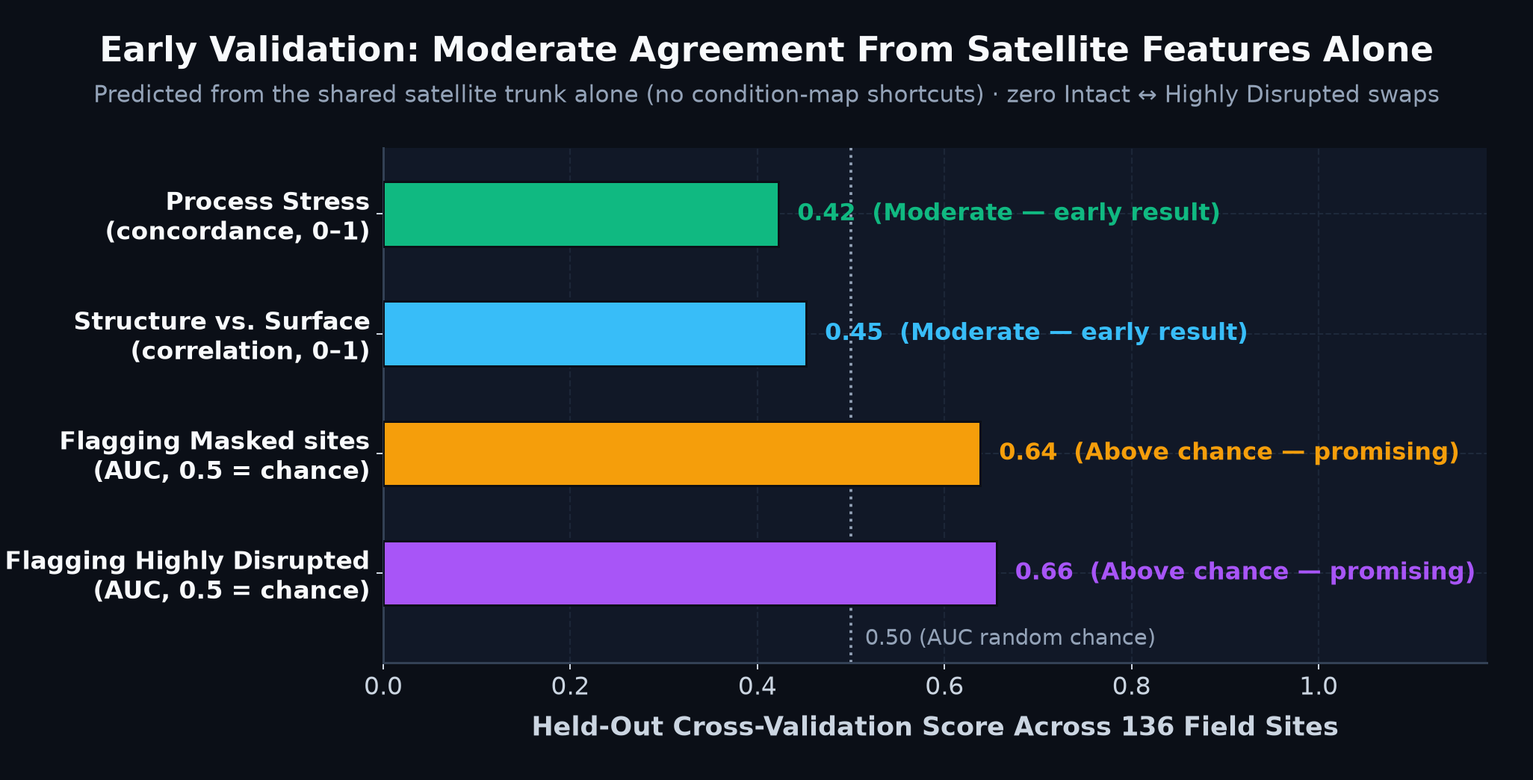
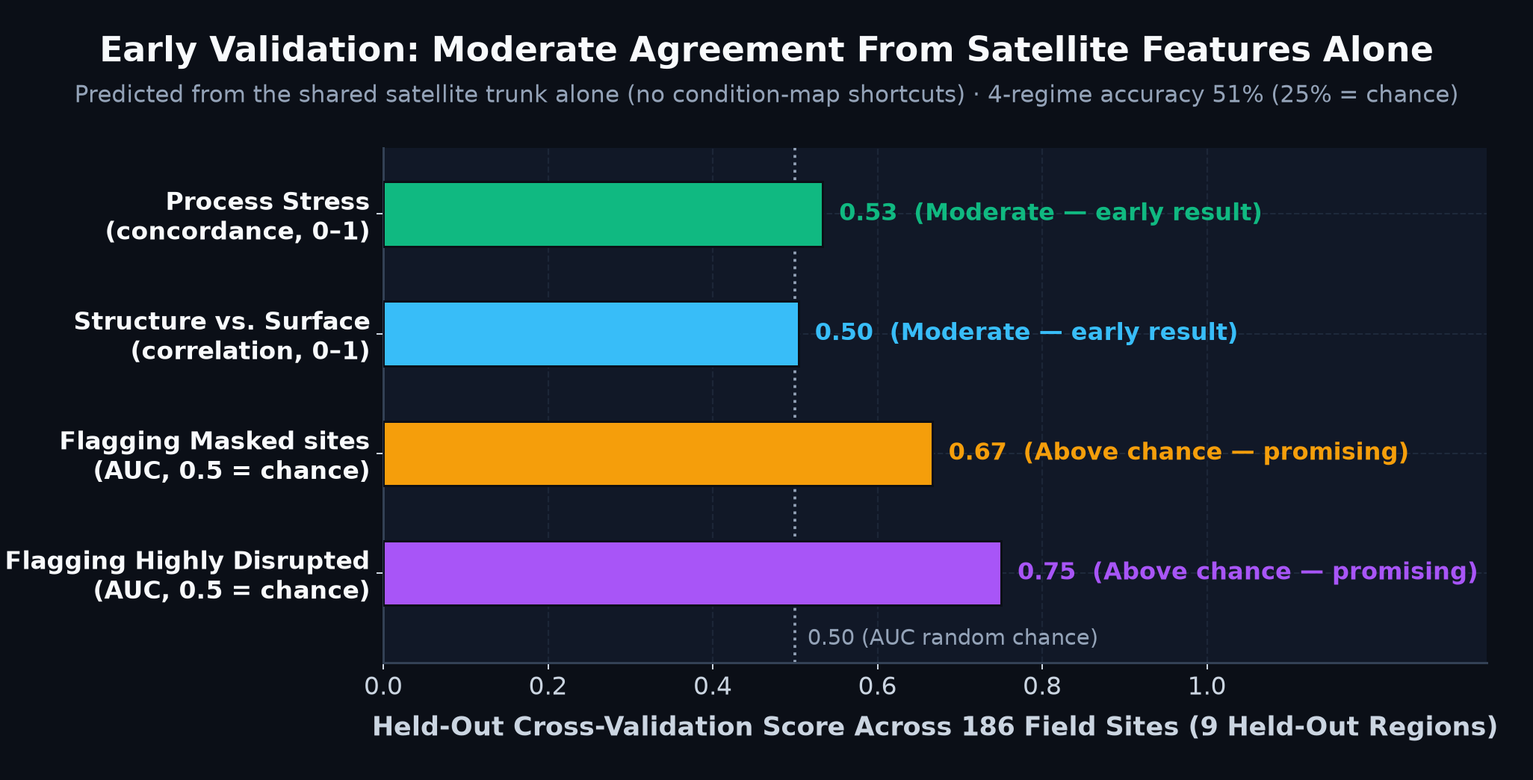
Update process-view slides to V7 results (186 sites); feature Sites 185 and 176

diff --git a/index.html b/index.html
@@ -1690,7 +1690,7 @@
     </section>
     
 
-    <section class="slide layout-standard" data-index="15" data-id="13" data-section="main" data-act="Act 4 · Early research" data-time="16:45–18:05" data-title="The same ground through two views">
+    <section class="slide layout-standard" data-index="15" data-id="13" data-section="main" data-act="Act 4 · Early research" data-time="16:45–18:10" data-title="The same ground through two views">
       
         <header class="s-head">
           <div class="s-title-wrap">
@@ -1710,11 +1710,11 @@
         <div class="regime-stage" id="regime-stage"></div>
       </div>
       <div class="s-num">13</div>
-      <aside class="notes">When we run that two-step Gemini prompt across 136 field photos, four physical regimes emerge. Let me show two of them live. Regime 1, Intact processes: here is our Windorah dune again — a grazing checklist grades it D, yet the process view sees deep sand percolating rain and spinifex root-knitting the slope, for a Process Stress of just 1.6 out of 10. [Press 2] Regime 2, Masked: Morven and Site 61 look green and grassy, so checklists rate them well, yet the process view flags missing overstorey trees and baking air above the grass — Process Stress around 4. The other two tabs, Disrupted and Highly disrupted, show glazed clay pans shedding runoff and hard-set, crusting surfaces above 8 out of 10 — yet even there, fallen branches act as tiny soil-catching micro-sinks.</aside>
+      <aside class="notes">When we run that two-step Gemini prompt across 186 field sites, four physical regimes emerge. Let me show two of them live. Regime 1, Intact processes: Site 185 near Weribone is grassy box woodland — tall trees and a full perennial grass layer — so canopies filter the rain while grass roots knit the soil, for a Process Stress of just 1.3 out of 10. [Press 2] Regime 2, Masked: Site 176 near Oberina and Site 61 look green and grassy, so checklists rate them well, yet the process view flags missing overstorey trees and baking air above the grass — Process Stress around 4. The other two tabs, Disrupted and Highly disrupted, show glazed clay pans shedding runoff and hard-set, crusting surfaces above 8 out of 10 — yet even there, fallen branches act as tiny soil-catching micro-sinks.</aside>
     </section>
     
 
-    <section class="slide layout-standard" data-index="16" data-id="14" data-section="main" data-act="Act 4 · Early research" data-time="18:05–19:05" data-title="Some top-rated pasture is quietly losing its trees">
+    <section class="slide layout-standard" data-index="16" data-id="14" data-section="main" data-act="Act 4 · Early research" data-time="18:10–19:20" data-title="Some top-rated pasture is quietly losing its trees">
       
         <header class="s-head">
           <div class="s-title-wrap">
@@ -1727,20 +1727,20 @@
       <div class="s-body">
         <div class="split-2">
           <div class="photo-card">
-            <div class="fig-box"><img src="assets/site_08.jpg" alt="Site 08 near Morven showing thick buffel grass with cleared overstorey trees" class="cover" data-zoom="Site 08 · Morven — Grade A pasture on paper, missing its tree canopy"></div>
-            <div class="photo-cap"><strong>Site 08 · Morven — thick grass, missing trees</strong><span>Rated <strong>Grade A</strong> pasture after good rain — yet shade trees have been cleared and surface cover masks deeper structural loss.</span></div>
+            <div class="fig-box"><img src="assets/site_176.jpg" alt="Site 176 near Oberina: thick pasture grass running up to a remnant brigalow tree line on the horizon" class="cover" data-zoom="Site 176 · Oberina — Grade A pasture on paper, missing its tree canopy"></div>
+            <div class="photo-cap"><strong>Site 176 · Oberina — thick grass, missing trees</strong><span>Rated <strong>Grade A</strong> pasture — yet the brigalow woodland now survives only as a wall of trees on the horizon.</span></div>
           </div>
           <div class="fig-box">
-            <img src="assets/chart_checklist_paradox.png" alt="Stacked bar chart of 136 field-photo sites showing more than a third of Grade A pasture sites are Masked or Disrupted underneath" data-zoom="More than a third of Grade A pasture sites hide missing tree structure">
+            <img src="assets/chart_checklist_paradox.png" alt="Stacked bar chart of 186 field-photo sites showing about two in five Grade A pasture sites are Masked or Disrupted underneath" data-zoom="About two in five Grade A pasture sites hide missing tree structure">
           </div>
         </div>
       </div>
       <div class="s-num">14</div>
-      <aside class="notes">Now put those four process regimes directly alongside standard grazing grades across all 136 field-photo sites, and a striking pattern jumps out. Look back at Site 08 near Morven on the left. After a wet season, thick introduced buffel grass covers the ground, so a pastoral checklist gives it top marks — Grade A. Yet look at the horizon: the multi-layered woodland trees that shelter the soil, cool the air, and anchor deep moisture are gone. Across the 136 sites on the right, more than a third of Grade A pasture sites — thirty-eight percent — turn out to be Masked or Disrupted underneath, while more than half of Grade B sites are Masked. That is the exact blind spot a process view begins to uncover.</aside>
+      <aside class="notes">Now put those four process regimes directly alongside standard grazing grades across all 186 field-photo sites, and a striking pattern jumps out. Look back at Site 176 near Oberina on the left. Thick grass covers the ground, so a pastoral checklist gives it top marks — Grade A. Yet look at the horizon: that wall of brigalow is what the whole paddock used to be. The trees that shelter the soil, cool the air, and anchor deep moisture are gone. Across the 186 sites on the right, about two in five Grade A pasture sites — forty-two percent — turn out to be Masked or Disrupted underneath. And it held up on the fifty sites we added in the latest run: eleven of the twenty-one new Grade A sites. That is the exact blind spot a process view begins to uncover.</aside>
     </section>
     
 
-    <section class="slide layout-standard" data-index="17" data-id="15" data-section="main" data-act="Act 4 · Early research" data-time="19:05–20:05" data-title="How we check the process view">
+    <section class="slide layout-standard" data-index="17" data-id="15" data-section="main" data-act="Act 4 · Early research" data-time="19:20–20:50" data-title="How we check the process view">
       
         <header class="s-head">
           <div class="s-title-wrap">
@@ -1753,7 +1753,7 @@
       <div class="s-body">
         <div class="split-2">
           <div class="fig-box">
-            <img src="assets/chart_process_validation.png" alt="Held-out cross-validation results across 136 field sites showing moderate agreement (0.42-0.45) and above-chance detection (0.64-0.66)" data-zoom="Honest early validation across 136 field sites">
+            <img src="assets/chart_process_validation.png" alt="Held-out cross-validation across 186 field sites in nine held-out regions showing moderate agreement (about 0.5) and above-chance detection (AUC 0.67 to 0.75)" data-zoom="Honest early validation across 186 field sites">
           </div>
           <div class="fig-box">
             <img src="assets/svg_four_planes_guardrails.svg" alt="Diagram of the four physical landscape planes and strict language guardrails" data-zoom="Four physical planes and strict language guardrails">
@@ -1761,20 +1761,20 @@
         </div>
         <div class="mini-card inline-note">
           <strong class="sky">Honest framing:</strong>
-          <span>Probing verb-guided photo assessments across 136 held-out sites from satellite trunk features alone (no condition-map shortcuts) yields <strong>moderate</strong> agreement (<strong>CCC 0.42 · AUC 0.64–0.66</strong>, where 0.5 = chance) — promising as an early signal, not yet an operational grade.</span>
+          <span>Predicting photo-based process readings at 186 sites in 9 held-out regions from satellite trunk features alone (no condition-map shortcuts) gives <strong>moderate</strong> agreement (<strong>CCC ≈ 0.5 · AUC 0.67–0.75</strong>, 0.5 = chance), ranging from 0.06 in the far west to 0.87 on the eastern escarpment — an early signal, not yet an operational grade.</span>
         </div>
       </div>
       <div class="s-num">15</div>
-      <aside class="notes">Can satellites actually see this, and how honest is the check? We trained a lightweight probe on the shared internal features of our condition model — deliberately withholding the six condition maps so it could not take shortcuts — to predict the 136 photo-based Process Stress labels. Under held-out cross-validation, agreement is moderate: a concordance correlation of 0.42 for Process Stress, and an AUC of 0.64 to 0.66 for flagging Masked and Highly disrupted sites, where 0.5 is chance. Promising as an early cross-modal signal, but not yet operational. On the right, every reading is anchored to four physical planes — soil, surface water, tree canopy and fire — with guardrails that stop the model inventing cultural, ceremonial or ownership claims.</aside>
+      <aside class="notes">Can satellites actually see this, and how honest is the check? We trained a lightweight probe on the shared internal features of the same condition model — deliberately withholding the six condition maps so it could not take shortcuts — to predict the photo-based Process Stress at 186 sites. Tested on nine held-out regions, agreement is moderate: a concordance of about 0.5 — 0.49 raw, 0.53 after a simple spread calibration — and an AUC of 0.67 to 0.75 for flagging Masked and Highly disrupted sites, where 0.5 is chance. It is strong on the eastern escarpment and close to zero in the far-west Channel Country — remember the Windorah dune? When the far west is held out, the probe reads it as stressed. One honest ML footnote: on our original 136 sites the new backbone alone did no better — the gain came from fifty more field sites. On the right, every reading is anchored to four physical planes — soil, surface water, tree canopy and fire — with guardrails that stop the model inventing cultural, ceremonial or ownership claims.</aside>
     </section>
     
 
-    <section class="slide layout-standard" data-index="18" data-id="16" data-section="main" data-act="Act 4 · Early research" data-time="20:05–21:00" data-title="Mapping Process Stress across 650,000 km²">
+    <section class="slide layout-standard" data-index="18" data-id="16" data-section="main" data-act="Act 4 · Early research" data-time="20:50–21:55" data-title="Mapping Process Stress across 655,000 km²">
       
         <header class="s-head">
           <div class="s-title-wrap">
             <div class="s-kicker">Early research · built on the condition model</div>
-            <h2 class="s-title">Mapping Process Stress across 650,000 km²</h2>
+            <h2 class="s-title">Mapping Process Stress across 655,000 km²</h2>
             
           </div>
         </header>
@@ -1782,21 +1782,21 @@
       <div class="s-body">
         <div class="stack-visual">
           <div class="fig-box main-fig">
-            <img src="assets/map_mitchell_process_stress.png" alt="Two-panel map of the 650,000 square kilometre Mitchell corridor showing Process Stress and the four dominant landscape process regimes" data-zoom="Early research: Process Stress across ~650,000 km²">
+            <img src="assets/map_mitchell_process_stress.png" alt="Two-panel map of the 655,000 square kilometre Mitchell corridor showing Process Stress, 186 field sites and the four dominant landscape process regimes" data-zoom="Early research: Process Stress across ~655,000 km²">
           </div>
           <div class="strip-3">
-            <div class="mini-card"><strong class="emerald">43% Intact processes</strong><span>Mostly woody ranges, spinifex dunes, and intact mulga landscapes.</span></div>
-            <div class="mini-card"><strong class="amber">38% Masked</strong><span>Cleared grazing downs where lush grass hides missing overstorey structure.</span></div>
-            <div class="mini-card"><strong class="violet">20% Disrupted / Highly disrupted</strong><span>Early map signal flagging priority zones for on-ground checking, not final grades.</span></div>
+            <div class="mini-card"><strong class="emerald">Just over half (54%) Intact</strong><span>Mostly far-west channel and dune country, woody ranges and intact mulga.</span></div>
+            <div class="mini-card"><strong class="amber">About a third (32%) Masked</strong><span>Cleared grazing country where good grass cover hides missing overstorey structure.</span></div>
+            <div class="mini-card"><strong class="violet">One in seven (14%) Disrupted</strong><span>Priority zones for on-ground checking. Every pixel carries a calibrated 90% interval (±1.8).</span></div>
           </div>
         </div>
       </div>
       <div class="s-num">16</div>
-      <aside class="notes">When we project that early satellite probe across the roughly six hundred and fifty thousand square kilometre Mitchell corridor in inland Queensland, a striking spatial pattern emerges. On the left is continuous Process Stress, with our 136 field-photo sites as white dots; on the right, the dominant landscape regime. About forty-three percent maps as Intact processes, in the woody ranges and spinifex dunes. Roughly thirty-eight percent maps as Masked — open grazing downs where good ground cover hides simplified tree structure. And around twenty percent flags as Disrupted or Highly disrupted. Treat this as an early research map: it tells field teams where to drive next, not a finished regulatory scorecard.</aside>
+      <aside class="notes">When we project that early satellite probe across the roughly six hundred and fifty-five thousand square kilometre Mitchell corridor, a striking spatial pattern emerges. On the left is continuous Process Stress, with our 186 field-photo sites as white dots; on the right, the dominant landscape regime. Just over half maps as Intact processes, in the far-west channel country, the woody ranges and intact mulga. About a third maps as Masked — open grazing country where good ground cover hides simplified tree structure. And about one in seven flags as Disrupted or Highly disrupted. Every pixel now carries a calibrated ninety-percent uncertainty band, and that matters: between model versions the Intact share moved by more than ten points. Treat this as an early research map: it tells field teams where to drive next, not a finished regulatory scorecard.</aside>
     </section>
     
 
-    <section class="slide layout-standard" data-index="19" data-id="17" data-section="main" data-act="Close" data-time="21:00–22:20" data-title="From static ledgers to living processes — what this unlocks">
+    <section class="slide layout-standard" data-index="19" data-id="17" data-section="main" data-act="Close" data-time="21:55–23:15" data-title="From static ledgers to living processes — what this unlocks">
       
         <header class="s-head">
           <div class="s-title-wrap">
@@ -1838,7 +1838,7 @@
               <span class="tk-tag">Google Hypothesis Generation · Process View</span>
             </div>
             <h3>AI-assisted ideation &amp; living processes</h3>
-            <p>Shaped with <strong>Google Hypothesis Generation</strong> (1,985 papers), the verb-based process view finds <strong>more than a third</strong> of Grade A pastures hiding missing tree structure.</p>
+            <p>Shaped with <strong>Google Hypothesis Generation</strong> (1,985 papers), the verb-based process view finds <strong>about two in five</strong> of Grade A pastures hiding missing tree structure.</p>
           </div>
         </div>
         <div class="collab-band">
@@ -1867,7 +1867,7 @@
         </div>
       </div>
       <div class="s-num">17</div>
-      <aside class="notes">I will leave this up for questions. Four quick take-homes. First, AlphaEarth&#x27;s global embeddings let a small team train one compact multi-task model that maps 1.2 billion pixels of Australia in about forty minutes, nearly halving tree-cover error — and the same pattern travels anywhere in APAC. Second, grounded Gemini VLMs turn field photos into auditable scientific data, landing within one class of field ecologists ninety-eight percent of the time once calibrated. Third, domain discipline — separating ecology from pasture and scoring the optimiser fairly — is what makes continental AI trustworthy. Fourth, an early process view, shaped with Google Hypothesis Generation, shows more than a third of top-rated pastures quietly losing structure. Next, savanna field surveys across Northern Australia will test both models out of domain. None of this would have been practical without Google Antigravity for our agentic engineering and Google Colab for the GPU compute. Thank you — the slides and code are at the link on screen, and I would love your questions.</aside>
+      <aside class="notes">I will leave this up for questions. Four quick take-homes. First, AlphaEarth&#x27;s global embeddings let a small team train one compact multi-task model that maps 1.2 billion pixels of Australia in about forty minutes, nearly halving tree-cover error — and the same pattern travels anywhere in APAC. Second, grounded Gemini VLMs turn field photos into auditable scientific data, landing within one class of field ecologists ninety-eight percent of the time once calibrated. Third, domain discipline — separating ecology from pasture and scoring the optimiser fairly — is what makes continental AI trustworthy. Fourth, an early process view, shaped with Google Hypothesis Generation, shows about two in five top-rated pastures quietly losing structure. Next, savanna field surveys across Northern Australia will test both models out of domain. None of this would have been practical without Google Antigravity for our agentic engineering and Google Colab for the GPU compute. Thank you — the slides and code are at the link on screen, and I would love your questions.</aside>
     </section>
     
 
@@ -2118,7 +2118,7 @@
         </div>
       </div>
       <div class="s-num">A9</div>
-      <aside class="notes">Appendix A9 summarises the operational characteristics of the continental run: six core outputs plus four ordered grazing-grade probability bands, computed at eighty-metre resolution across 1.2 billion valid pixels in roughly forty minutes on a single cloud GPU from a self-contained three-megabyte exported model.</aside>
+      <aside class="notes">Appendix A9 summarises the operational characteristics of the continental run: six core outputs plus four ordered grazing-grade probability bands, computed at eighty-metre resolution across 1.2 billion valid pixels in roughly forty minutes on a single cloud GPU from a self-contained three-megabyte exported model. The early process-view probe is packaged the same way: a single self-contained 33-megabyte model maps the 655,000 square kilometre corridor in about fifteen minutes, after a 1,008-trial hyperparameter search that took under two and a half hours on a Colab L4 GPU.</aside>
     </section>
     
 
@@ -2178,7 +2178,7 @@
             <div class="panel-hd emerald">Field datasets, LandLens &amp; evaluation media</div>
             <ul class="ref-list">
               <li><strong>Queensland BioCondition &amp; SLATS</strong> — Queensland Government field vegetation structure and woody canopy transects (~3,600 sites).</li>
-              <li><strong>LandLens (Gemini VLM)</strong> — Context-grounded structured photo reasoning (~5,900 grazing assessments + 136 two-step verb-centred process sites), compared with field ecologists on 60 independent sites (A13).</li>
+              <li><strong>LandLens (Gemini VLM)</strong> — Context-grounded structured photo reasoning (~5,900 grazing assessments + 186 two-step verb-centred process sites), compared with field ecologists on 60 independent sites (A13).</li>
               <li><strong>Pastoral &amp; Botanical Field Networks</strong> — ~2,000 agronomist transects, TERN / AusPlots botanical surveys, and 83 held-out South-West Queensland validation sites.</li>
               <li><strong>Full evaluation drive video:</strong> <span class="mono-url">youtube.com/watch?v=_tbDoJxXLsc</span> (Canopy Cover Evaluation Drive: Eulo to Cunnamulla).</li>
             </ul>
@@ -2590,15 +2590,15 @@
       toneHex: '#22C55E',
       pair: [
         {
-          id: 'Site 95 · Windorah',
-          sub: 'Spinifex & red sand dune',
-          photo: 'assets/site_95.jpg',
-          stress: '1.6 / 10',
+          id: 'Site 185 · Weribone',
+          sub: 'Grassy box woodland',
+          photo: 'assets/site_185.jpg',
+          stress: '1.3 / 10',
           badge: 'Intact processes',
-          checklist: 'High native plant mix (94%), very low grazing score (Grade D)',
-          process: 'Coarse sand drinks rainfall deep underground while spinifex tussocks knit and shelter the dune.',
-          holding: ['root-knitting', 'percolating', 'co-sheltering', 'cradling'],
-          losing: ['wind-winnowing (crest)']
+          checklist: 'Good ecological structure (65), native plants (63%), Grade A pasture',
+          process: 'Both views agree: box canopies filter rain and shade the ground while a full tussock-grass layer knits and cradles the soil.',
+          holding: ['canopy-filtering', 'co-sheltering', 'root-knitting', 'percolating'],
+          losing: ['minor trickle-shedding']
         },
         {
           id: 'Site 85 · Carnarvon Gorge',
@@ -2619,15 +2619,15 @@
       toneHex: '#F59E0B',
       pair: [
         {
-          id: 'Site 08 · Morven',
-          sub: 'Cleared red-earth mulga & buffel grass',
-          photo: 'assets/site_08.jpg',
-          stress: '3.9 / 10',
+          id: 'Site 176 · Oberina',
+          sub: 'Cleared brigalow paddock',
+          photo: 'assets/site_176.jpg',
+          stress: '4.0 / 10',
           badge: 'Masked · Grade A pasture',
-          checklist: 'Top pasture grade (Grade A) after rain; low climax similarity (12%)',
-          process: 'Dense buffel grass holds the topsoil, but cleared shade trees leave the upper air exposed and baking.',
-          holding: ['root-knitting', 'percolating', 'cradling'],
-          losing: ['tree removal', 'baking', 'parching']
+          checklist: 'Top pasture grade (Grade A); native plants only 33%; near-zero climax similarity',
+          process: 'Thick grass holds the clay soil, but the brigalow overstorey survives only as a wall on the horizon, leaving the paddock air exposed and baking.',
+          holding: ['root-knitting', 'fissure-drinking', 'cradling'],
+          losing: ['tree removal', 'baking', 'crusting']
         },
         {
           id: 'Site 61 · Mulga & Box Slope',

diff --git a/speaker_notes.md b/speaker_notes.md
@@ -4,7 +4,7 @@
 **Event:** GDG AI for Science Asia-Pacific DevFest, Sydney · 25 min + 5 min Q&A  
 **Shortcuts in Deck:** `←`/`→` navigate · `S` speaker notes · `R` Reader Mode · `G` slide grid · `A` Appendix · `1–4` regimes on Slide 13
 
-**Total script length:** 2,649 words (Main Talk) + 878 words (Appendix) = **3,527 words total**.
+**Total script length:** 2,754 words (Main Talk) + 920 words (Appendix) = **3,674 words total**.
 
 **Rehearsal checkpoints** (paced at ~128 wpm + slide changes; slower for the Acknowledgement):
 
@@ -14,8 +14,8 @@
 | Act 1 · The problem | 5:00 |
 | Act 2 · The condition model | 8:30 |
 | Act 3 · Three lessons & results | 14:25 |
-| Act 4 · Early research | 21:00 |
-| Close | 22:20 |
+| Act 4 · Early research | 21:55 |
+| Close | 23:15 |
 
 ---
 
@@ -97,29 +97,29 @@ Now I want to pivot — and be upfront that this final part of the talk is early
 Before building the verb-based experiment, we stress-tested that hunch with Google Hypothesis Generation. It read nearly two thousand arXiv and bioRxiv papers and compared ten candidate research designs against our criteria. It flagged two failure modes and one design principle. First, kinetic conflation: if you only ban nouns, a VLM scores gullying and scouring as healthy simply because they are active — so we split verbs into Holding versus Losing. Second, stripping landscape nouns can break arid-zone intuition, so every reading is anchored in local physical and climate context. And the design principle: keep rich verb prompting offline on field photos, then probe our shared AlphaEarth satellite trunk rather than guessing beneath tree canopies.
 
 ### 13 · The same ground through two views  
-*Act 4 · Early research · 16:45–18:05 · ~134 words*
+*Act 4 · Early research · 16:45–18:10 · ~139 words*
 
-When we run that two-step Gemini prompt across 136 field photos, four physical regimes emerge. Let me show two of them live. Regime 1, Intact processes: here is our Windorah dune again — a grazing checklist grades it D, yet the process view sees deep sand percolating rain and spinifex root-knitting the slope, for a Process Stress of just 1.6 out of 10. [Press 2] Regime 2, Masked: Morven and Site 61 look green and grassy, so checklists rate them well, yet the process view flags missing overstorey trees and baking air above the grass — Process Stress around 4. The other two tabs, Disrupted and Highly disrupted, show glazed clay pans shedding runoff and hard-set, crusting surfaces above 8 out of 10 — yet even there, fallen branches act as tiny soil-catching micro-sinks.
+When we run that two-step Gemini prompt across 186 field sites, four physical regimes emerge. Let me show two of them live. Regime 1, Intact processes: Site 185 near Weribone is grassy box woodland — tall trees and a full perennial grass layer — so canopies filter the rain while grass roots knit the soil, for a Process Stress of just 1.3 out of 10. [Press 2] Regime 2, Masked: Site 176 near Oberina and Site 61 look green and grassy, so checklists rate them well, yet the process view flags missing overstorey trees and baking air above the grass — Process Stress around 4. The other two tabs, Disrupted and Highly disrupted, show glazed clay pans shedding runoff and hard-set, crusting surfaces above 8 out of 10 — yet even there, fallen branches act as tiny soil-catching micro-sinks.
 
 ### 14 · Some top-rated pasture is quietly losing its trees  
-*Act 4 · Early research · 18:05–19:05 · ~126 words*
+*Act 4 · Early research · 18:10–19:20 · ~141 words*
 
-Now put those four process regimes directly alongside standard grazing grades across all 136 field-photo sites, and a striking pattern jumps out. Look back at Site 08 near Morven on the left. After a wet season, thick introduced buffel grass covers the ground, so a pastoral checklist gives it top marks — Grade A. Yet look at the horizon: the multi-layered woodland trees that shelter the soil, cool the air, and anchor deep moisture are gone. Across the 136 sites on the right, more than a third of Grade A pasture sites — thirty-eight percent — turn out to be Masked or Disrupted underneath, while more than half of Grade B sites are Masked. That is the exact blind spot a process view begins to uncover.
+Now put those four process regimes directly alongside standard grazing grades across all 186 field-photo sites, and a striking pattern jumps out. Look back at Site 176 near Oberina on the left. Thick grass covers the ground, so a pastoral checklist gives it top marks — Grade A. Yet look at the horizon: that wall of brigalow is what the whole paddock used to be. The trees that shelter the soil, cool the air, and anchor deep moisture are gone. Across the 186 sites on the right, about two in five Grade A pasture sites — forty-two percent — turn out to be Masked or Disrupted underneath. And it held up on the fifty sites we added in the latest run: eleven of the twenty-one new Grade A sites. That is the exact blind spot a process view begins to uncover.
 
 ### 15 · How we check the process view  
-*Act 4 · Early research · 19:05–20:05 · ~121 words*
+*Act 4 · Early research · 19:20–20:50 · ~181 words*
 
-Can satellites actually see this, and how honest is the check? We trained a lightweight probe on the shared internal features of our condition model — deliberately withholding the six condition maps so it could not take shortcuts — to predict the 136 photo-based Process Stress labels. Under held-out cross-validation, agreement is moderate: a concordance correlation of 0.42 for Process Stress, and an AUC of 0.64 to 0.66 for flagging Masked and Highly disrupted sites, where 0.5 is chance. Promising as an early cross-modal signal, but not yet operational. On the right, every reading is anchored to four physical planes — soil, surface water, tree canopy and fire — with guardrails that stop the model inventing cultural, ceremonial or ownership claims.
+Can satellites actually see this, and how honest is the check? We trained a lightweight probe on the shared internal features of the same condition model — deliberately withholding the six condition maps so it could not take shortcuts — to predict the photo-based Process Stress at 186 sites. Tested on nine held-out regions, agreement is moderate: a concordance of about 0.5 — 0.49 raw, 0.53 after a simple spread calibration — and an AUC of 0.67 to 0.75 for flagging Masked and Highly disrupted sites, where 0.5 is chance. It is strong on the eastern escarpment and close to zero in the far-west Channel Country — remember the Windorah dune? When the far west is held out, the probe reads it as stressed. One honest ML footnote: on our original 136 sites the new backbone alone did no better — the gain came from fifty more field sites. On the right, every reading is anchored to four physical planes — soil, surface water, tree canopy and fire — with guardrails that stop the model inventing cultural, ceremonial or ownership claims.
 
-### 16 · Mapping Process Stress across 650,000 km²  
-*Act 4 · Early research · 20:05–21:00 · ~111 words*
+### 16 · Mapping Process Stress across 655,000 km²  
+*Act 4 · Early research · 20:50–21:55 · ~137 words*
 
-When we project that early satellite probe across the roughly six hundred and fifty thousand square kilometre Mitchell corridor in inland Queensland, a striking spatial pattern emerges. On the left is continuous Process Stress, with our 136 field-photo sites as white dots; on the right, the dominant landscape regime. About forty-three percent maps as Intact processes, in the woody ranges and spinifex dunes. Roughly thirty-eight percent maps as Masked — open grazing downs where good ground cover hides simplified tree structure. And around twenty percent flags as Disrupted or Highly disrupted. Treat this as an early research map: it tells field teams where to drive next, not a finished regulatory scorecard.
+When we project that early satellite probe across the roughly six hundred and fifty-five thousand square kilometre Mitchell corridor, a striking spatial pattern emerges. On the left is continuous Process Stress, with our 186 field-photo sites as white dots; on the right, the dominant landscape regime. Just over half maps as Intact processes, in the far-west channel country, the woody ranges and intact mulga. About a third maps as Masked — open grazing country where good ground cover hides simplified tree structure. And about one in seven flags as Disrupted or Highly disrupted. Every pixel now carries a calibrated ninety-percent uncertainty band, and that matters: between model versions the Intact share moved by more than ten points. Treat this as an early research map: it tells field teams where to drive next, not a finished regulatory scorecard.
 
 ### 17 · From static ledgers to living processes — what this unlocks  
-*Close · 21:00–22:20 · ~167 words*
+*Close · 21:55–23:15 · ~166 words*
 
-I will leave this up for questions. Four quick take-homes. First, AlphaEarth's global embeddings let a small team train one compact multi-task model that maps 1.2 billion pixels of Australia in about forty minutes, nearly halving tree-cover error — and the same pattern travels anywhere in APAC. Second, grounded Gemini VLMs turn field photos into auditable scientific data, landing within one class of field ecologists ninety-eight percent of the time once calibrated. Third, domain discipline — separating ecology from pasture and scoring the optimiser fairly — is what makes continental AI trustworthy. Fourth, an early process view, shaped with Google Hypothesis Generation, shows more than a third of top-rated pastures quietly losing structure. Next, savanna field surveys across Northern Australia will test both models out of domain. None of this would have been practical without Google Antigravity for our agentic engineering and Google Colab for the GPU compute. Thank you — the slides and code are at the link on screen, and I would love your questions.
+I will leave this up for questions. Four quick take-homes. First, AlphaEarth's global embeddings let a small team train one compact multi-task model that maps 1.2 billion pixels of Australia in about forty minutes, nearly halving tree-cover error — and the same pattern travels anywhere in APAC. Second, grounded Gemini VLMs turn field photos into auditable scientific data, landing within one class of field ecologists ninety-eight percent of the time once calibrated. Third, domain discipline — separating ecology from pasture and scoring the optimiser fairly — is what makes continental AI trustworthy. Fourth, an early process view, shaped with Google Hypothesis Generation, shows about two in five top-rated pastures quietly losing structure. Next, savanna field surveys across Northern Australia will test both models out of domain. None of this would have been practical without Google Antigravity for our agentic engineering and Google Colab for the GPU compute. Thank you — the slides and code are at the link on screen, and I would love your questions.
 
 ## Technical Appendix (Q&A Backup)
 
@@ -164,9 +164,9 @@ Appendix A7 shows the full continental probability distribution across Grazing G
 Appendix A8 explains mathematically why the shared trunk is so useful for downstream research like our early process-view probes. Measuring effective rank via singular value decomposition across 423 held-out grazing sites shows a 5.8-fold expansion in usable dimensionality inside the shared trunk compared with the raw ecological output scores. On the right, a nonlinear probe on the shared trunk beats probing either raw satellite embeddings or ecological outputs alone.
 
 ### A9 · A9 · Production outputs and run times  
-*Appendix · Backup · ~43 words*
+*Appendix · Backup · ~85 words*
 
-Appendix A9 summarises the operational characteristics of the continental run: six core outputs plus four ordered grazing-grade probability bands, computed at eighty-metre resolution across 1.2 billion valid pixels in roughly forty minutes on a single cloud GPU from a self-contained three-megabyte exported model.
+Appendix A9 summarises the operational characteristics of the continental run: six core outputs plus four ordered grazing-grade probability bands, computed at eighty-metre resolution across 1.2 billion valid pixels in roughly forty minutes on a single cloud GPU from a self-contained three-megabyte exported model. The early process-view probe is packaged the same way: a single self-contained 33-megabyte model maps the 655,000 square kilometre corridor in about fifteen minutes, after a 1,008-trial hyperparameter search that took under two and a half hours on a Colab L4 GPU.
 
 ### A10 · A10 · Glossary  
 *Appendix · Backup · ~31 words*

diff --git a/README.md b/README.md
@@ -41,7 +41,7 @@
   4. Joint multi-task training nearly halves tree-cover error (`−44%` across `~3,600` survey lines) and cuts false native-vegetation alarms on cleared land from `76% → 9%`.
 - **Act 4 · Early Research: The Process View (`11–16`):**
   - Slide 11 frames nouns vs. verbs (positioning statement first) and states the hunch; Slide 12 stress-tests it with **Google Hypothesis Generation** (`labs.google.com/science/hypothesis-generation/`), which synthesised `1,985` sources across `10` candidate designs to catch *kinetic conflation* (leading to **Holding** vs. **Losing** verbs) and *geographic mismatch* before building the verb-based experiment.
-  - Applied via a two-step verb-centred Gemini VLM prompt across `136` field-photo sites — finding that more than a third (`38%`) of Grade A pastures mask missing overstorey structure, and testing satellite-trunk probing across the ~650,000 km² Mitchell corridor.
+  - Applied via a two-step verb-centred Gemini VLM prompt across `186` field-photo sites — finding that about two in five (`42%`) Grade A pastures mask missing overstorey structure (replicated on the 50 newest sites). A satellite-trunk probe predicts these readings with moderate skill across 9 held-out regions (CCC ≈ 0.5, AUC 0.67–0.75) and maps the ~655,000 km² Mitchell corridor with a calibrated 90% uncertainty band per pixel.
 - **Close (`17`):** Takeaways, links to slides and code, and acknowledgement of the end-to-end Google AI for Science stack (**Google Hypothesis Generation**, **Gemini VLMs**, **AlphaEarth Foundations**, **Google Antigravity**, and **Google Colab**).
 
 ### Technical Appendix (`A1–A13` Backup)
@@ -57,7 +57,7 @@ Only the minimal files required for the deck to render and run offline are track
 .
 ├── index.html          # Standalone 33-slide HTML5 presentation (Intro + 17 Main + A1–A13 Appendix)
 ├── speaker_notes.md    # Complete presenter script with slide timings & rehearsal checkpoints
-├── assets/             # 40 charts, maps, SVG diagrams, field photos, word clouds & drive clip
+├── assets/             # 41 charts, maps, SVG diagrams, field photos, word clouds & drive clip
 ├── .gitignore          # Excludes local reference/ materials from version control
 └── README.md           # This guide
 ```
